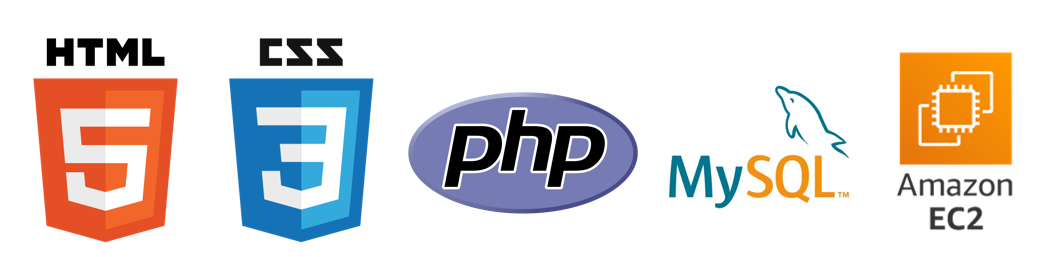
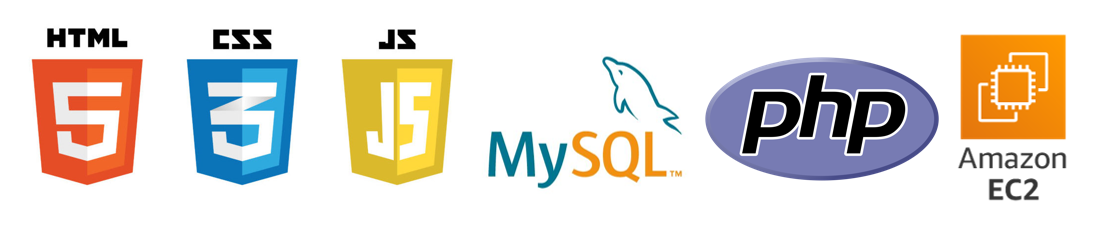
modify footer's line and add skill etc image

diff --git a/index.html b/index.html
@@ -65,14 +65,20 @@
 							<header class="major">
 								<h2>What I Can Do</h2>
 								<center>
-								 <span class="image"><img src="/images/whaticando.png" alt="" style="max-width:100%; max-height:auto;"/></span>
+								 <span class="image"><img src="/images/whaticando.png" alt="" width = 750 style="max-width:100%; max-height:auto;"/></span>
 							 	</center>
 						 <br><br>
 
 								<h2>And What I Can Do Too</h2>
 								<center>
-								 <span class="image"><img src="/images/whaticandotoo.png" alt="" style="max-width:100%; max-height:auto;"/></span>
+								 <span class="image"><img src="/images/whaticandotoo.png" alt=""  width = 1050 style="max-width:100%; max-height:auto;"/></span>
 							 	</center>
+							<br>
+
+								<h2>ETC</h2>
+									<center>
+									<span class="image"><img src="/images/whatetc.png" alt=""  width = 800 style="max-width:100%; max-height:auto;"/></span>
+								</center>
 							</header>
 							<!-- <footer class="major">
 								<ul class="actions special">

diff --git a/aboutme.html b/aboutme.html
@@ -60,6 +60,13 @@
 											<li></li>
 										</ul>
 
+										<h3>스터디</h3>
+										<ul class="alt">
+											<li>TEAMNOVA (2018.03 ~ 2022.04)</li>
+											<li>국비지원 응용소프트웨어공학과정 (2017.01 ~ 2017.09)</li>
+											<li></li>
+										</ul>
+
 										<!-- <h3>자격증</h3>
 										<ul class="alt">
 											<li>Tensorflow certificate (2022.05 ~ 2027.05)</li>

diff --git a/project.html b/project.html
@@ -97,6 +97,7 @@
 						</section>
 
 
+						</section>
 						<!-- Post -->
 							<!-- <article class="post">
 								<header>

diff --git a/study.html b/study.html
@@ -174,7 +174,6 @@
 					</div>
 
 
-					</div>
 
 				<!-- Footer -->
 					<footer id="footer">
